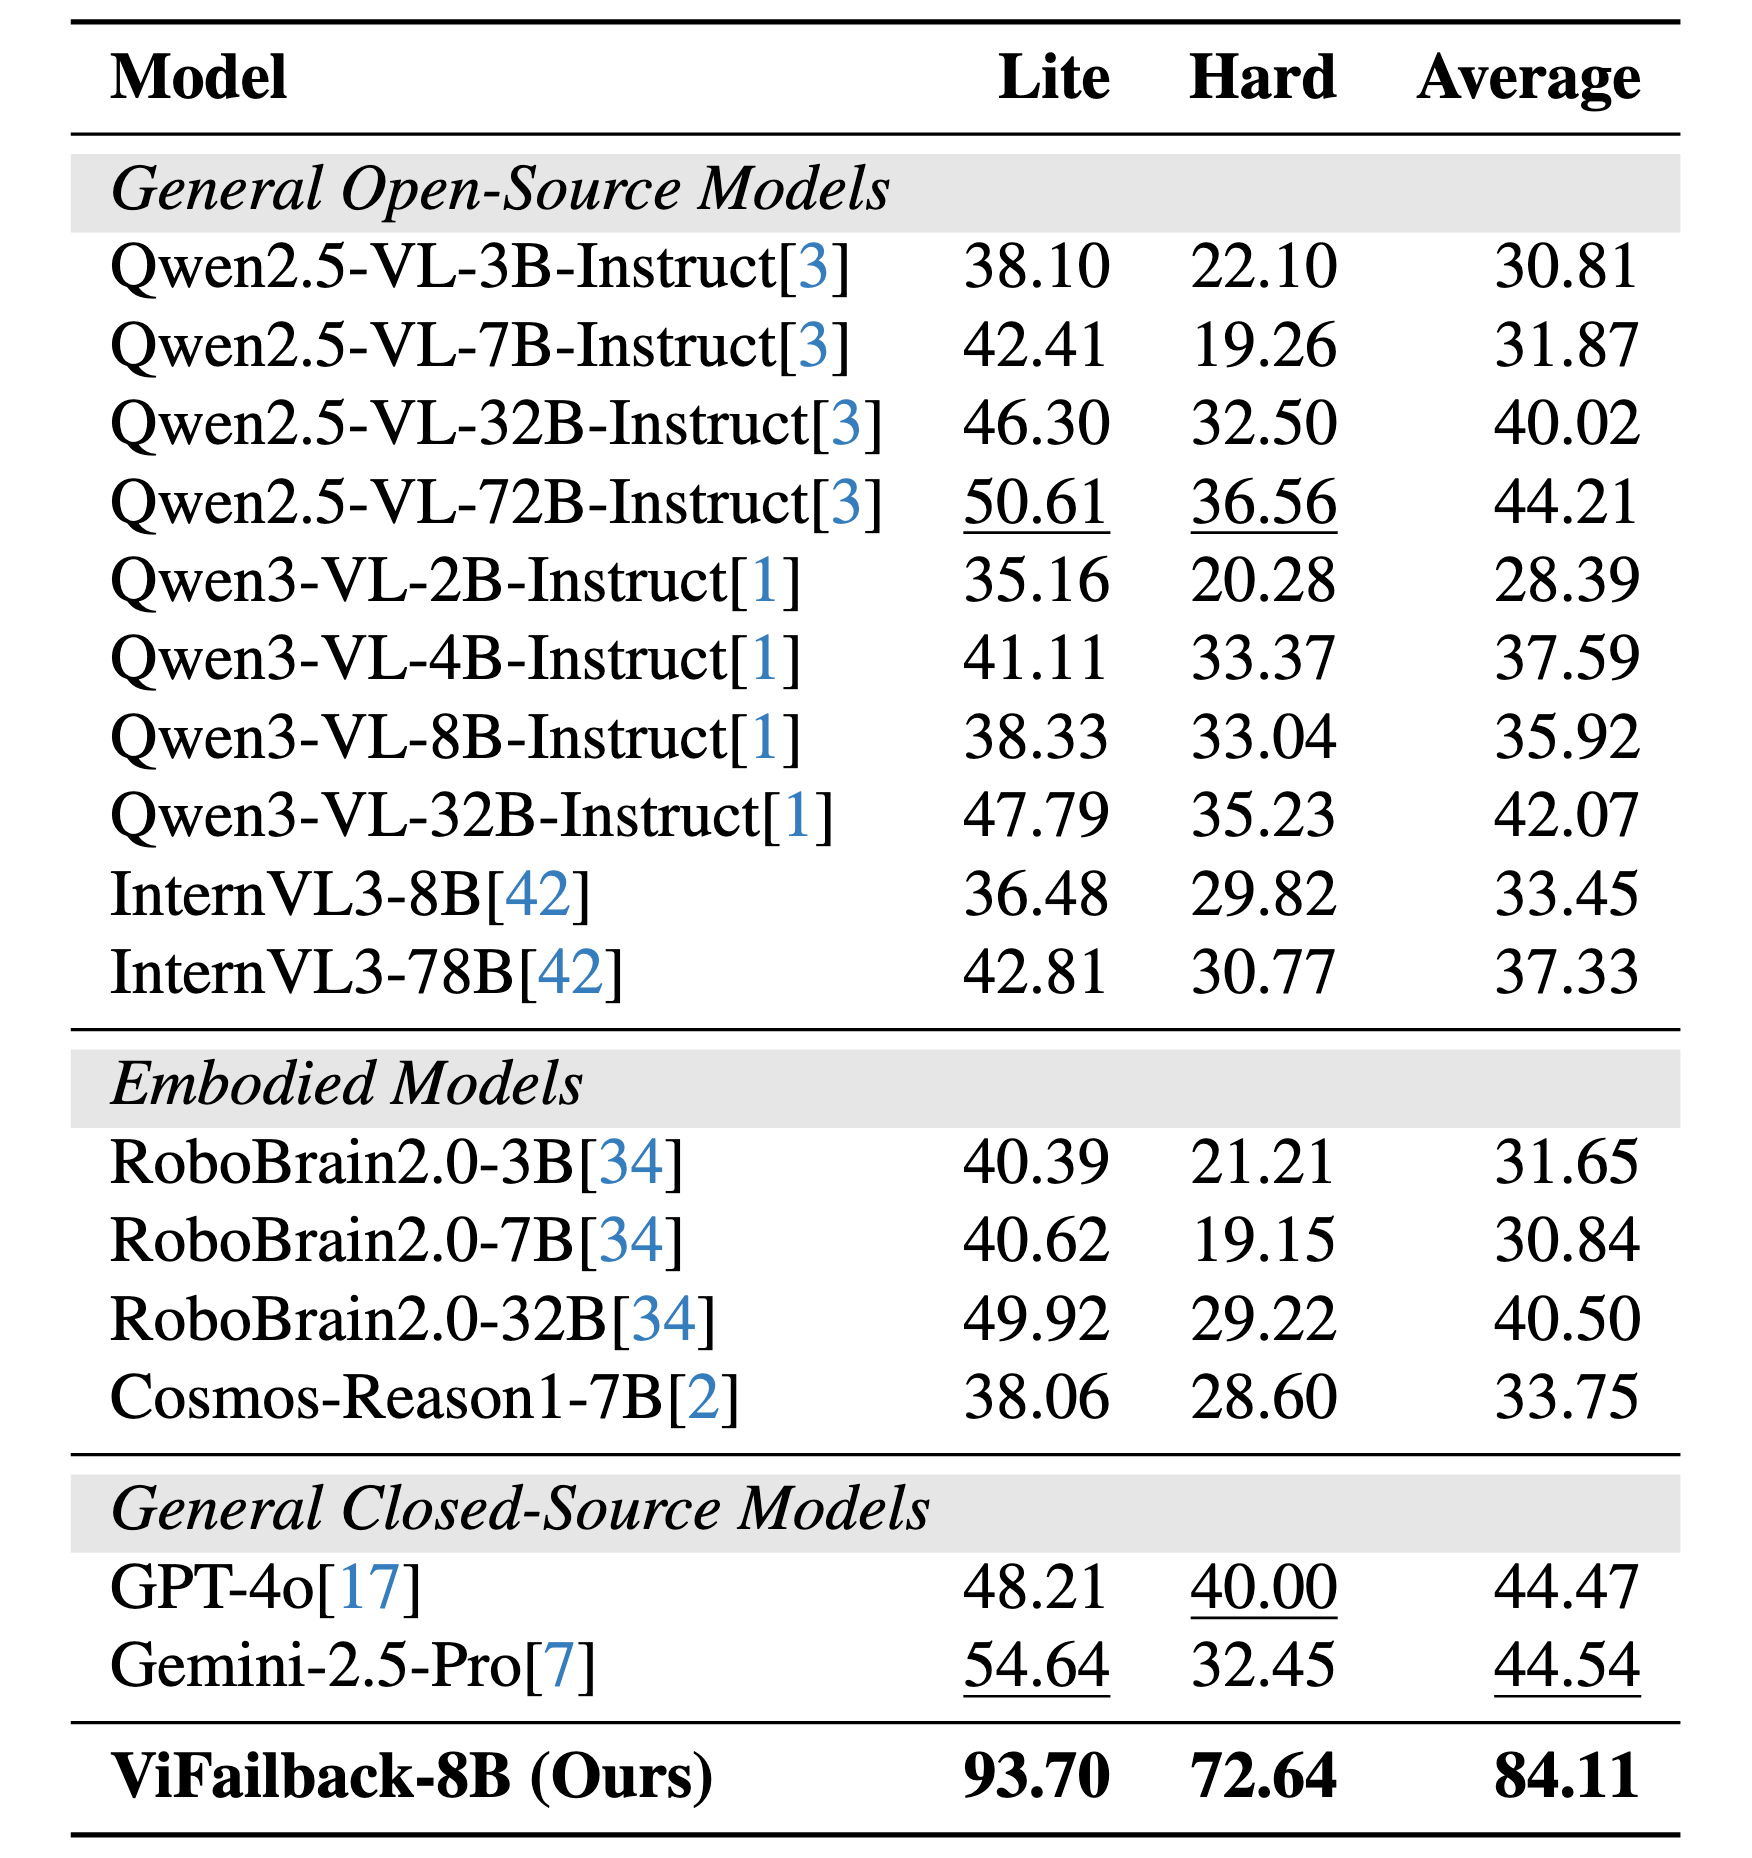
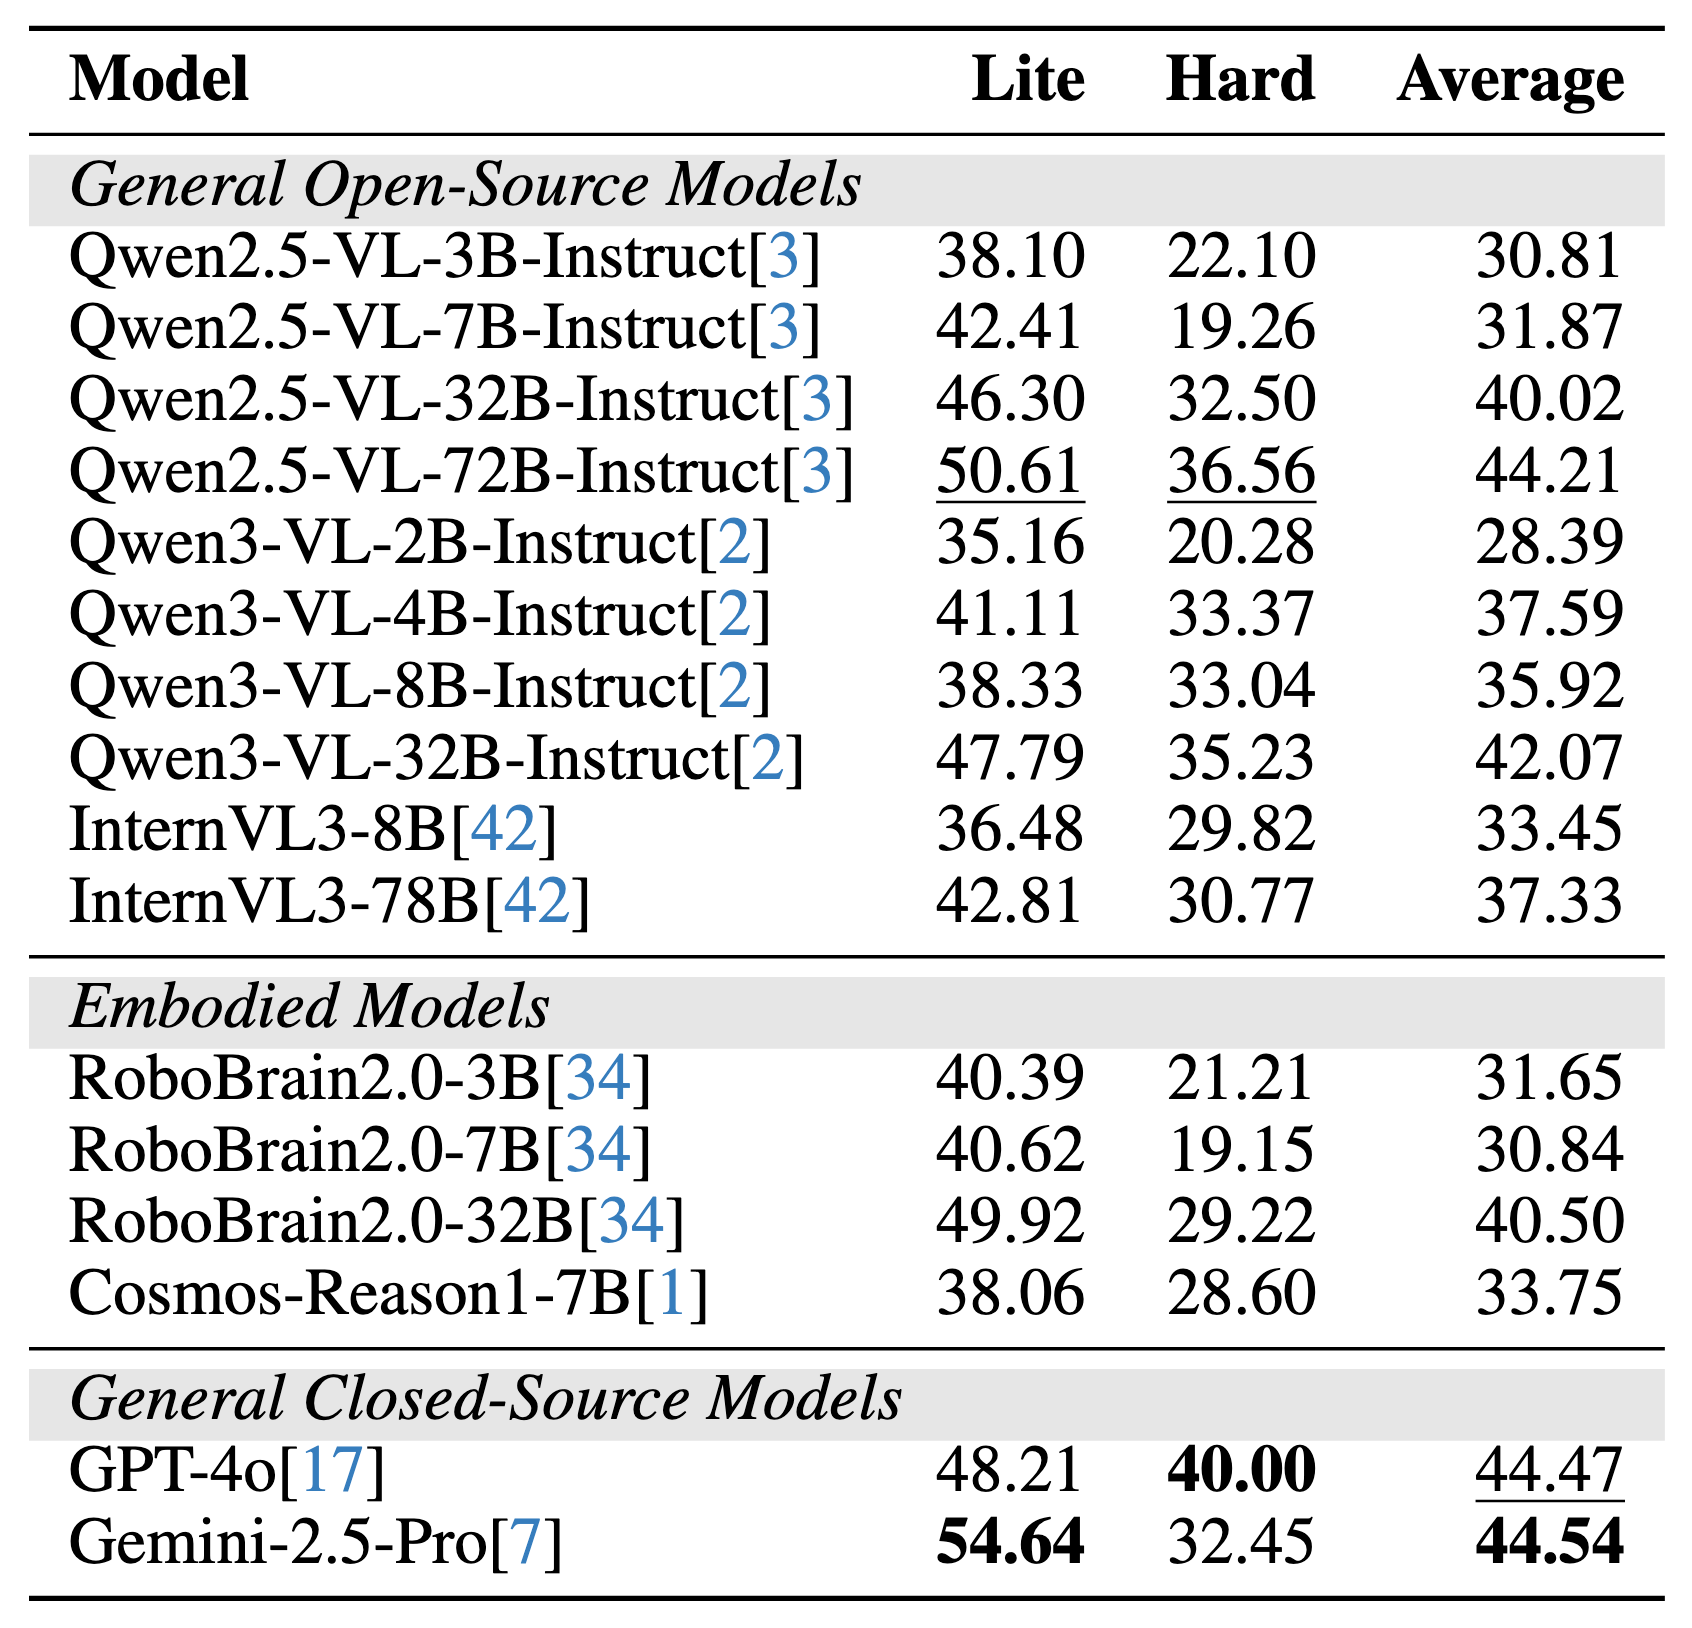
Update webpage content

diff --git a/index.html b/index.html
@@ -61,7 +61,7 @@
             <span class="author-block">
               <a href="https://faculty.sustech.edu.cn/?tagid=chenlm6&iscss=1&snapid=1&orderby=date&go=2&lang=en">Liangming Chen</a><sup>3</sup>,</span>
             <span class="author-block">
-              <a href="https://scholar.google.com/citations?user=BcSIgFEAAAAJ&hl=en&oi=ao">Lei Ren</a><sup>1</sup>,</span>
+              <a href="https://scholar.google.com/citations?user=BcSIgFEAAAAJ&hl=en&oi=ao">Lei Ren</a><sup>1✉</sup>,</span>
             <span class="author-block">
               <a href="https://dirtyharrylyl.github.io">Yong-Lu Li</a><sup>2,4✉</sup>
             </span>
